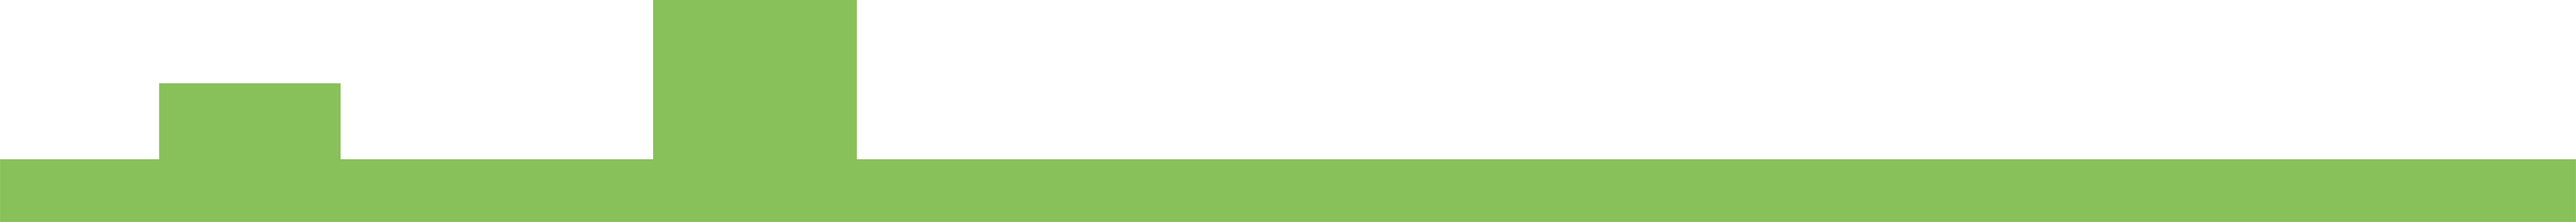
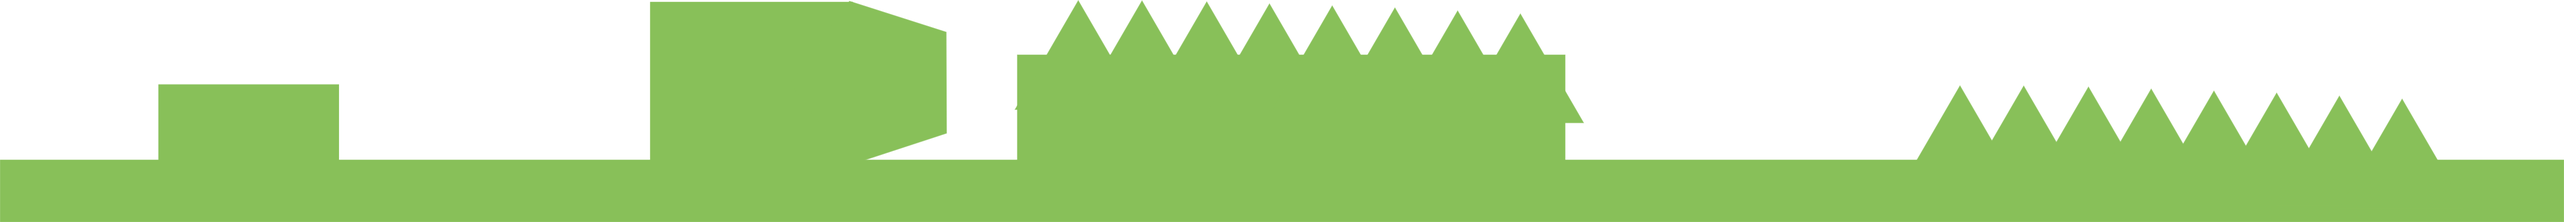
Added stones to fight the little kid(planned)

diff --git a/classes.py b/classes.py
@@ -2,25 +2,30 @@ import pygame, random, level, sys, time
 width = 1024
 height = 576
 screen = pygame.display.set_mode((width, height))
+pygame.mixer.init ()
 
 
-
-class Coin(pygame.sprite.Sprite):
+class Obtainium(pygame.sprite.Sprite):
 	"""We'll want a way to increase score or there's no point in telling the score"""
 	
-	def __init__(self, screen, width, height, posX = False, posY = False):
+	def __init__(self, screen, width, height, img, posX = False, posY = False, rock=False):
 		"""Initializes essential variables, loads image, places image, etc..."""
 		self.picked = False
 	
 		super(Level).__init__(Level)
 		self.screen = screen
-		self.img = pygame.image.load('resources/Coin.png')
-		
+		self.img = pygame.image.load(img)
+		self.change = 0
 		self.size = self.img.get_size()
 		self.mask = pygame.mask.from_surface(self.img)
 		self.height = self.size[1]
 		self.width = self.size[0]
 		self.screen_width = width
+		self.rock = rock
+		if self.width == 23:
+			self.change = 1
+		elif self.width == 64:
+			self.change = 2
 		
 		if not posX:
 			self.posX = width/2
@@ -36,17 +41,25 @@ class Coin(pygame.sprite.Sprite):
 		"""I'm sure that the coin needs to be seen and located before it is obtained"""
 		if self.picked == False:
 			self.screen.blit(self.img, (self.posX, self.posY))
+			
 		
 		if pygame.sprite.collide_rect(self, character_obj) and (not self.picked):
-			self.picked = True
-			character_obj.deaths += 1
-			
+			if pygame.sprite.collide_mask(self, character_obj):
+				if self.rock:
+					self.picked = True
+					character_obj.rocks += 1
+				else:
+					self.picked = True
+					character_obj.deaths += self.change
+					
 	def scroll(self, direction):
 		"""If the player has triggerred a scroll, we want the coin to move offscreen."""
 		if direction == 'right':
 			self.posX -= self.screen_width
+			self.rect = pygame.Rect((self.posX, self.posY), self.size)
 		elif direction == 'left':
 			self.posX += self.screen_width		
+			self.rect = pygame.Rect((self.posX, self.posY), self.size)
 
 
 class PowerUp(pygame.sprite.Sprite):
@@ -83,14 +96,22 @@ class PowerUp(pygame.sprite.Sprite):
 		
 		if pygame.sprite.collide_rect(self, character_obj) and (not self.picked):
 			self.picked = True
-			character_obj.speed *= 3
+			if character_obj.speed > 8:
+				character_obj.speed -= 8
+			elif character_obj.speed > 0:
+				character_obj.speed -= character_obj.speed-1
+			else:
+				pass
+			pygame.key.set_repeat(100, character_obj.speed)
 			
 	def scroll(self, direction):
-		"""If the player has triggerred a scroll, we want the coin to move offscreen."""
+		"""If the player has triggerred a scroll, we want the powerup to move offscreen."""
 		if direction == 'right':
 			self.posX -= self.screen_width
+			self.rect = pygame.Rect((self.posX, self.posY), self.size)
 		elif direction == 'left':
 			self.posX += self.screen_width		
+			self.rect = pygame.Rect((self.posX, self.posY), self.size)	
 class Level(pygame.sprite.Sprite):
 	"""The ground"""
 	def __init__(self, screen, width, height, image):
@@ -103,7 +124,7 @@ class Level(pygame.sprite.Sprite):
 		self.height = self.size[1]
 		self.width = self.size[0]
 		self.screen_width = width
-		self.posX=-731
+		self.posX=(-576)*2
 		self.posY=height - self.height
 		self.rect = pygame.Rect((self.posX, self.posY), self.size)
 		self.mask = pygame.mask.from_surface(self.image)
@@ -136,7 +157,8 @@ class Character(pygame.sprite.Sprite):
 		#self.forward_mask = pygame.mask.from_surface(self.forward_img)
 		#self.right_mask = pygame.mask.from_surface(self.right_img)
 		#self.left_mask = pygame.mask.from_surface(self.left_img)
-		
+		self.health = 3
+		self.rocks = 0
 		self.size = self.forward_size
 		self.image = self.forward_img
 		#self.mask = self.forward_mask
@@ -146,19 +168,18 @@ class Character(pygame.sprite.Sprite):
 		self.posX = width/2
 		self.screen_width = width
 		self.screen_height = height
+		self.error_sound = pygame.mixer.Sound("resources/error.mp3")
 	
 		self.rect = pygame.Rect((self.posX, self.posY), self.size)
 		self.deaths = 0
-		self.speed = 10
+		self.speed = 50
   
 		
 	def move(self, ground_rect, direction='forward', coin_obj=[], powerup_obj=[]):
 		"""We want to be able to move """
 		if not pygame.sprite.collide_rect(self, ground_rect):
 			if not pygame.sprite.collide_mask(self, ground_rect):
-				self.posY +=1
-				self.size = self.forward_size
-				self.image = self.forward_img
+				self.posY +=2
 				#self.mask = self.forward_mask
 				self.screen.blit(self.image, (self.posX, self.posY))
 				self.rect = pygame.Rect((self.posX, self.posY), self.size)
@@ -166,20 +187,20 @@ class Character(pygame.sprite.Sprite):
 			self.size = self.left_size
 			self.image = self.left_img
 			#self.mask = self.left_mask
-			self.posX -= self.speed
+			self.posX -= 4
 			self.screen.blit(self.image, (self.posX, self.posY))
 			self.rect = pygame.Rect((self.posX, self.posY), self.size)
 		if direction == 'right':
 		   self.size = self.right_size
 		   self.image = self.right_img
 		   #self.mask = self.right_mask
-		   self.posX += self.speed
+		   self.posX += 4
 		   self.screen.blit(self.image, (self.posX, self.posY))
 		   self.rect = pygame.Rect((self.posX, self.posY), self.size)
 	
 		if direction == 'up' and pygame.sprite.collide_mask(self, ground_rect):
-			self.size = self.forward_size
-			self.image = self.forward_img
+			#self.size = self.forward_size
+			#self.image = self.forward_img
 			#self.mask = self.forward_mask
 			self.screen.blit(self.image, (self.posX, self.posY))
 			self.rect = pygame.Rect((self.posX, self.posY), self.size)
@@ -231,6 +252,12 @@ class Character(pygame.sprite.Sprite):
 				obj.scroll('left')
 			self.screen.blit(self.image, (self.posX, self.posY))
 			self.rect = pygame.Rect((self.posX, self.posY), self.size)
+		def shoot(self, rock):
+			if self.rocks > 0:
+				rock.shoot()
+			else:
+				self.error_sound.play()
+				
 
 
 class Cloud:

diff --git a/level.py b/level.py
@@ -9,15 +9,14 @@ def main(width, height):
 	from classes import Level
 	from classes import Character
 	from classes import Cloud
-	from classes import Coin
+	from classes import Obtainium
 	
 	#Death counter
 	deaths = 0
-	
+	clock = pygame.time.Clock()
 	pygame.init()
 	font = pygame.font.SysFont("OSP-DIN", 48)
 	 
-	text = font.render("Score: Nil" , True ,(255,255,255))
 	
 	
 	#create the screen
@@ -34,14 +33,22 @@ def main(width, height):
 	#The character, who's sprite is a gingerbread man
 	gingerman = Character(screen, width, height)
 	
-	#If the arrow keys are held down, we want the character to continously move. This helps with that.	
-	pygame.key.set_repeat(100, 50)
 	
 	
+	coin_imgs = ["resources/Coin2.png", "resources/Coin.png"]
 	#The clouds. We put them into a list so we can iterate through them
 	clouds = [Cloud(), Cloud(), Cloud()]
-	coins = [Coin(screen, width, height, (width/2) - 30, height-200), Coin(screen, width, height, (width/2) - 60, height-200), Coin(screen, width, height, (width/2) - 90, height-200), Coin(screen, width, height, (width/2) + 50, height-200), ]
-	powerups = [PowerUp(screen, width, height, 'resources/arrow.png', 300, 300)]
+	coins = []
+	powerups = []
+	rocks = Obtainium(screen, width, height, 'resources/stone.png', width/2, 50, True)
+	for x in range(7):
+		coins.append(Obtainium(screen, width, height, random.choice(coin_imgs), (random.randint(-400, 4000)) - (10*x) + width, height-150))
+		powerups.append(PowerUp(screen, width, height, 'resources/arrow.png', (random.randint(-400, 4000)) - (10*x) + width, height-150))
+		
+	#If the arrow keys are held down, we want the character to continously move. This helps with that.	
+	pygame.key.set_repeat(100, gingerman.speed)
+
+
 
 	#Gameloop, executes all the actions
 	while running:
@@ -59,11 +66,11 @@ def main(width, height):
 			#Moves the character if the keys are pressed
 			if event.type == pygame.KEYDOWN:
 				if event.key == pygame.K_LEFT:
-					gingerman.move(level, 'left', coins)
+					gingerman.move(level, 'left', coins, powerups)
 				if event.key == pygame.K_RIGHT:
-					gingerman.move(level, 'right', coins)
+					gingerman.move(level, 'right', coins, powerups)
 				if event.key == pygame.K_SPACE:
-					gingerman.move(level, 'up', coins)
+					gingerman.move(level, 'up', coins, powerups)
 			
 	
 		
@@ -80,15 +87,11 @@ def main(width, height):
 			thing.display(gingerman)
 
 
-
 		deathtext = font.render("Score:"+ str(gingerman.deaths), 1,(255,255,255))
-		
+		rocktext = font.render("Rocks:"+ str(gingerman.rocks), 1,(255,255,255))
+		rocks.display(gingerman)
 		
 				
-		#speedup.display() #|This is commented because the speedup is glitchy
-		
-		#speedup.speedup(gingerman) # |This is commented because the speedup is glitchy
-		
 		#Makes sure physics applies
 		gingerman.move(level, 'forward', coins)
 		#Shows and moves the cloud
@@ -97,11 +100,16 @@ def main(width, height):
 		
 		
 		screen.blit(deathtext, (0,0))
+		screen.blit(rocktext, (0,48))
 
 
 		
 		#Shows everything
 		pygame.display.flip()
+		
+		clock.tick(120)
+		
+
 
 if __name__ == '__main__':
 	main(1024, 576)
